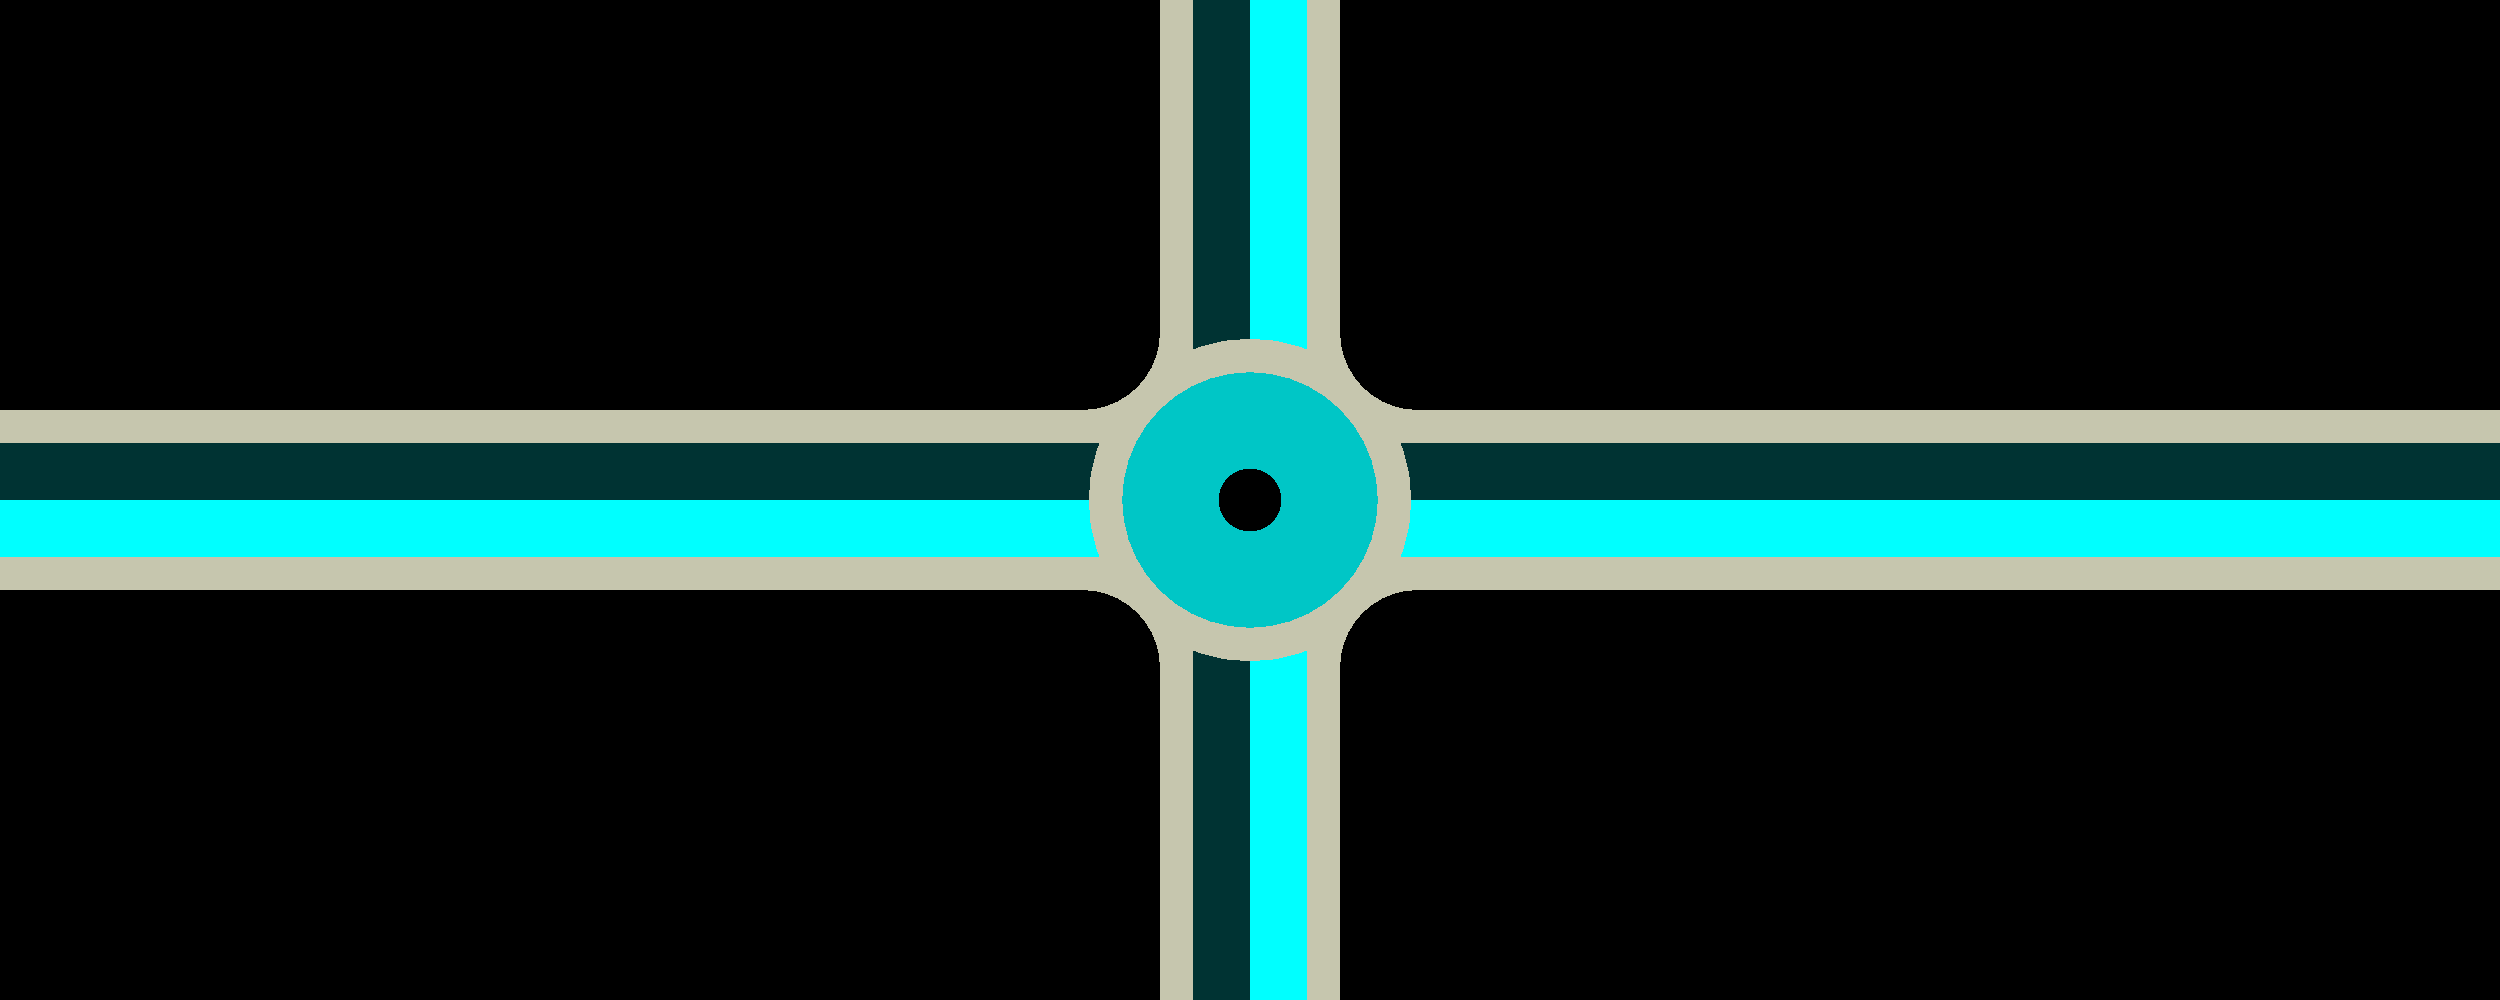
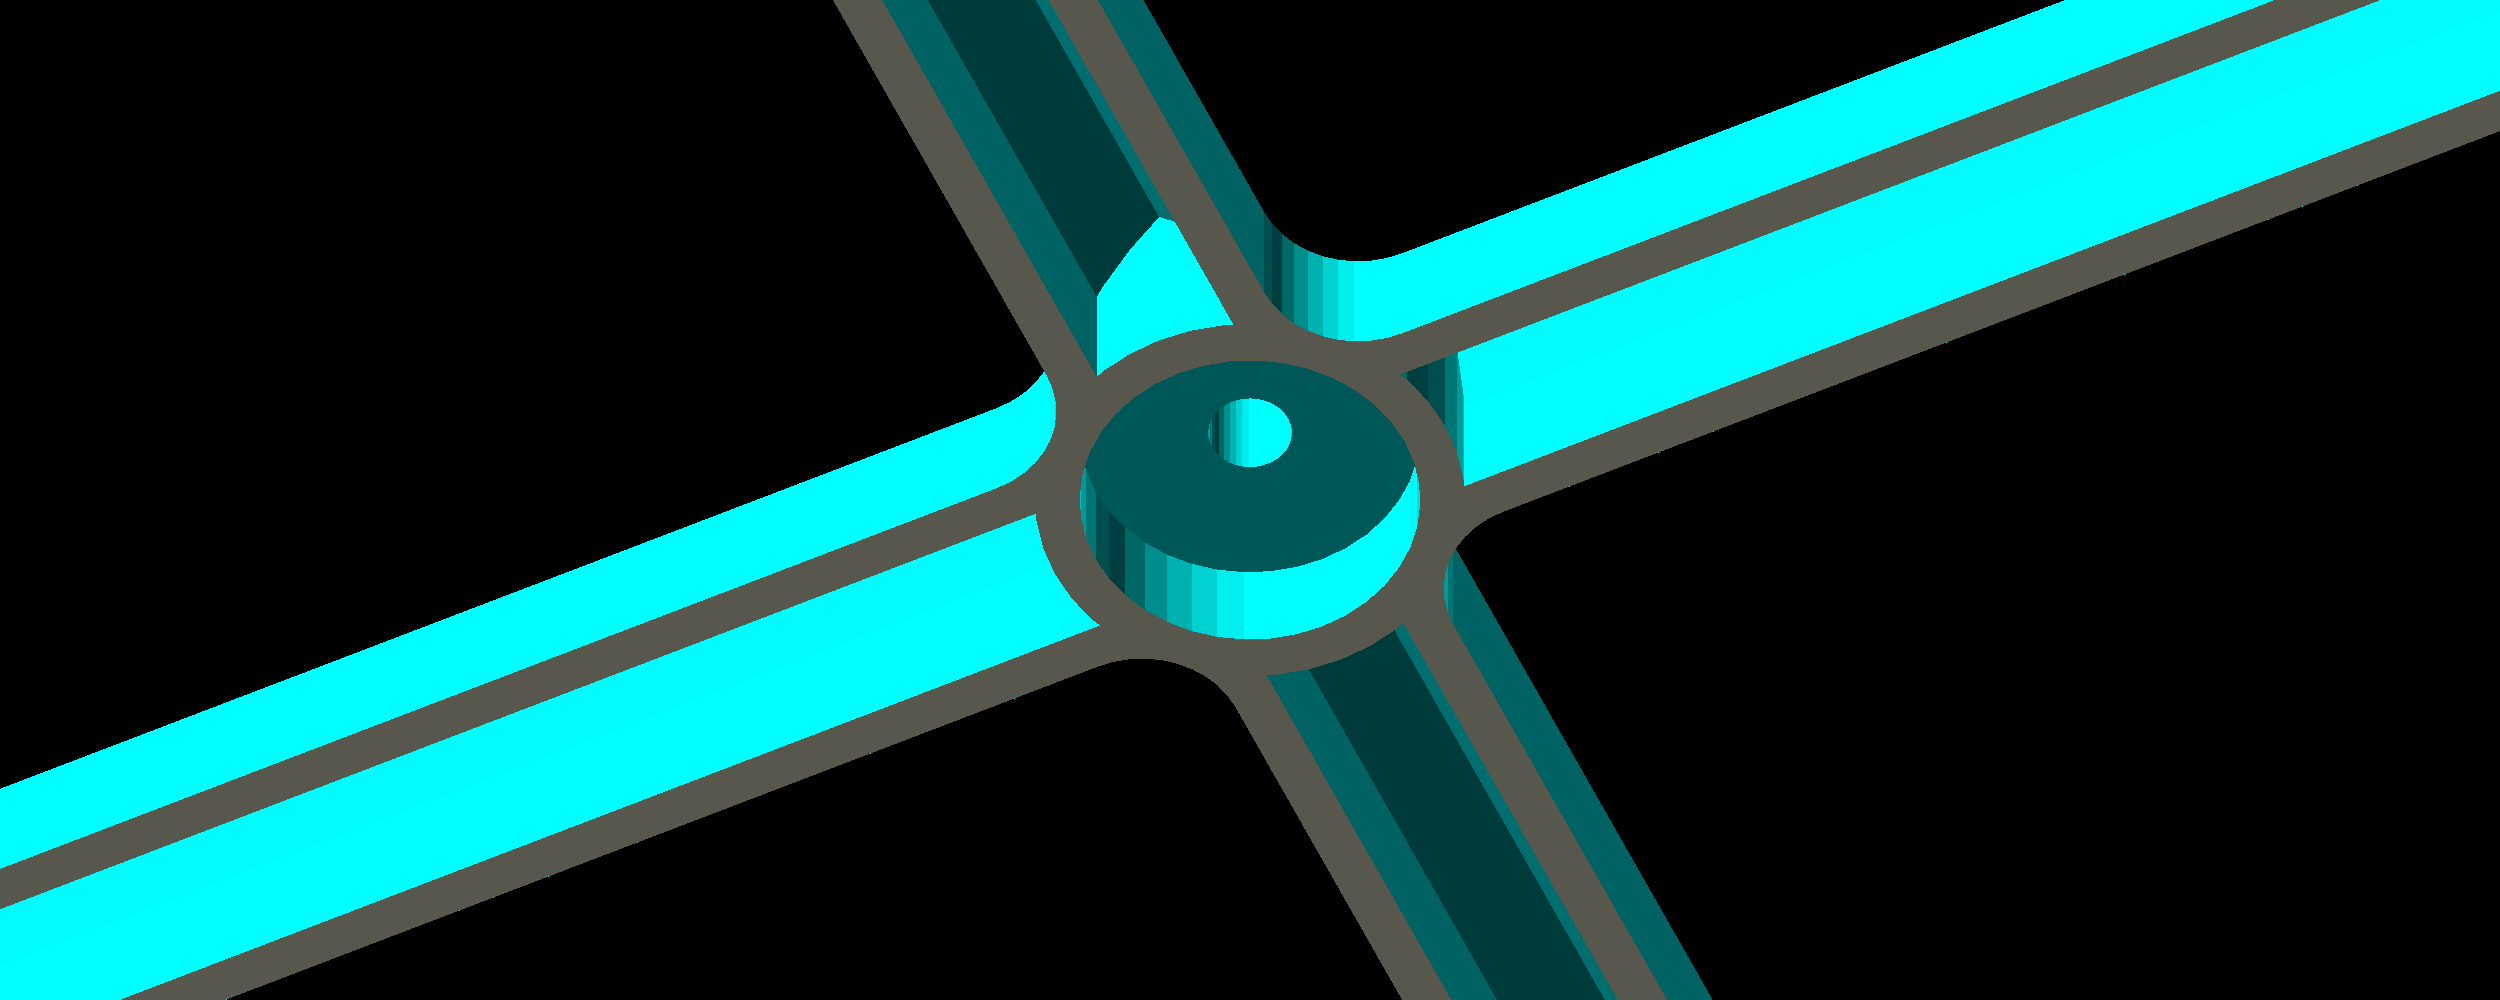
Show the hollow intersection hole at an angle in the README image

diff --git a/README.md b/README.md
@@ -511,7 +511,7 @@ The same connectors with `hollow_connector_fill=0`:
 
 [Intersection holes](#intersection-holes) sit where the hollow channels cross. In hollow mode, GridFlock keeps the plate solid around each hole, out to where the bin cavities meet it on the diagonals. The wall around a hole is then the same all the way round, and as thick as on a solid plate. A hole wider than that, such as a large counterbore, keeps `hollow_wall` of material around it.
 
-<!-- openscad -o docs/images/intersection-fill.png --camera=0,0,0,180,0,0,60 -D plate_size='[84, 84]' -D hollow=true -D vertical_screw_style=1 -D vertical_screw_plate_corners=true -D connector_intersection_puzzle=false -D numbering=false -->
+<!-- openscad -o docs/images/intersection-fill.png --camera=0,0,0,145,0,25,45 -D plate_size='[84, 84]' -D hollow=true -D vertical_screw_style=1 -D vertical_screw_plate_corners=true -D connector_intersection_puzzle=false -D numbering=false -->
 <img src="docs/images/intersection-fill.png" alt="Intersection magnet pocket in hollow mode, seen from below" />
 
 ### Bottom lip
